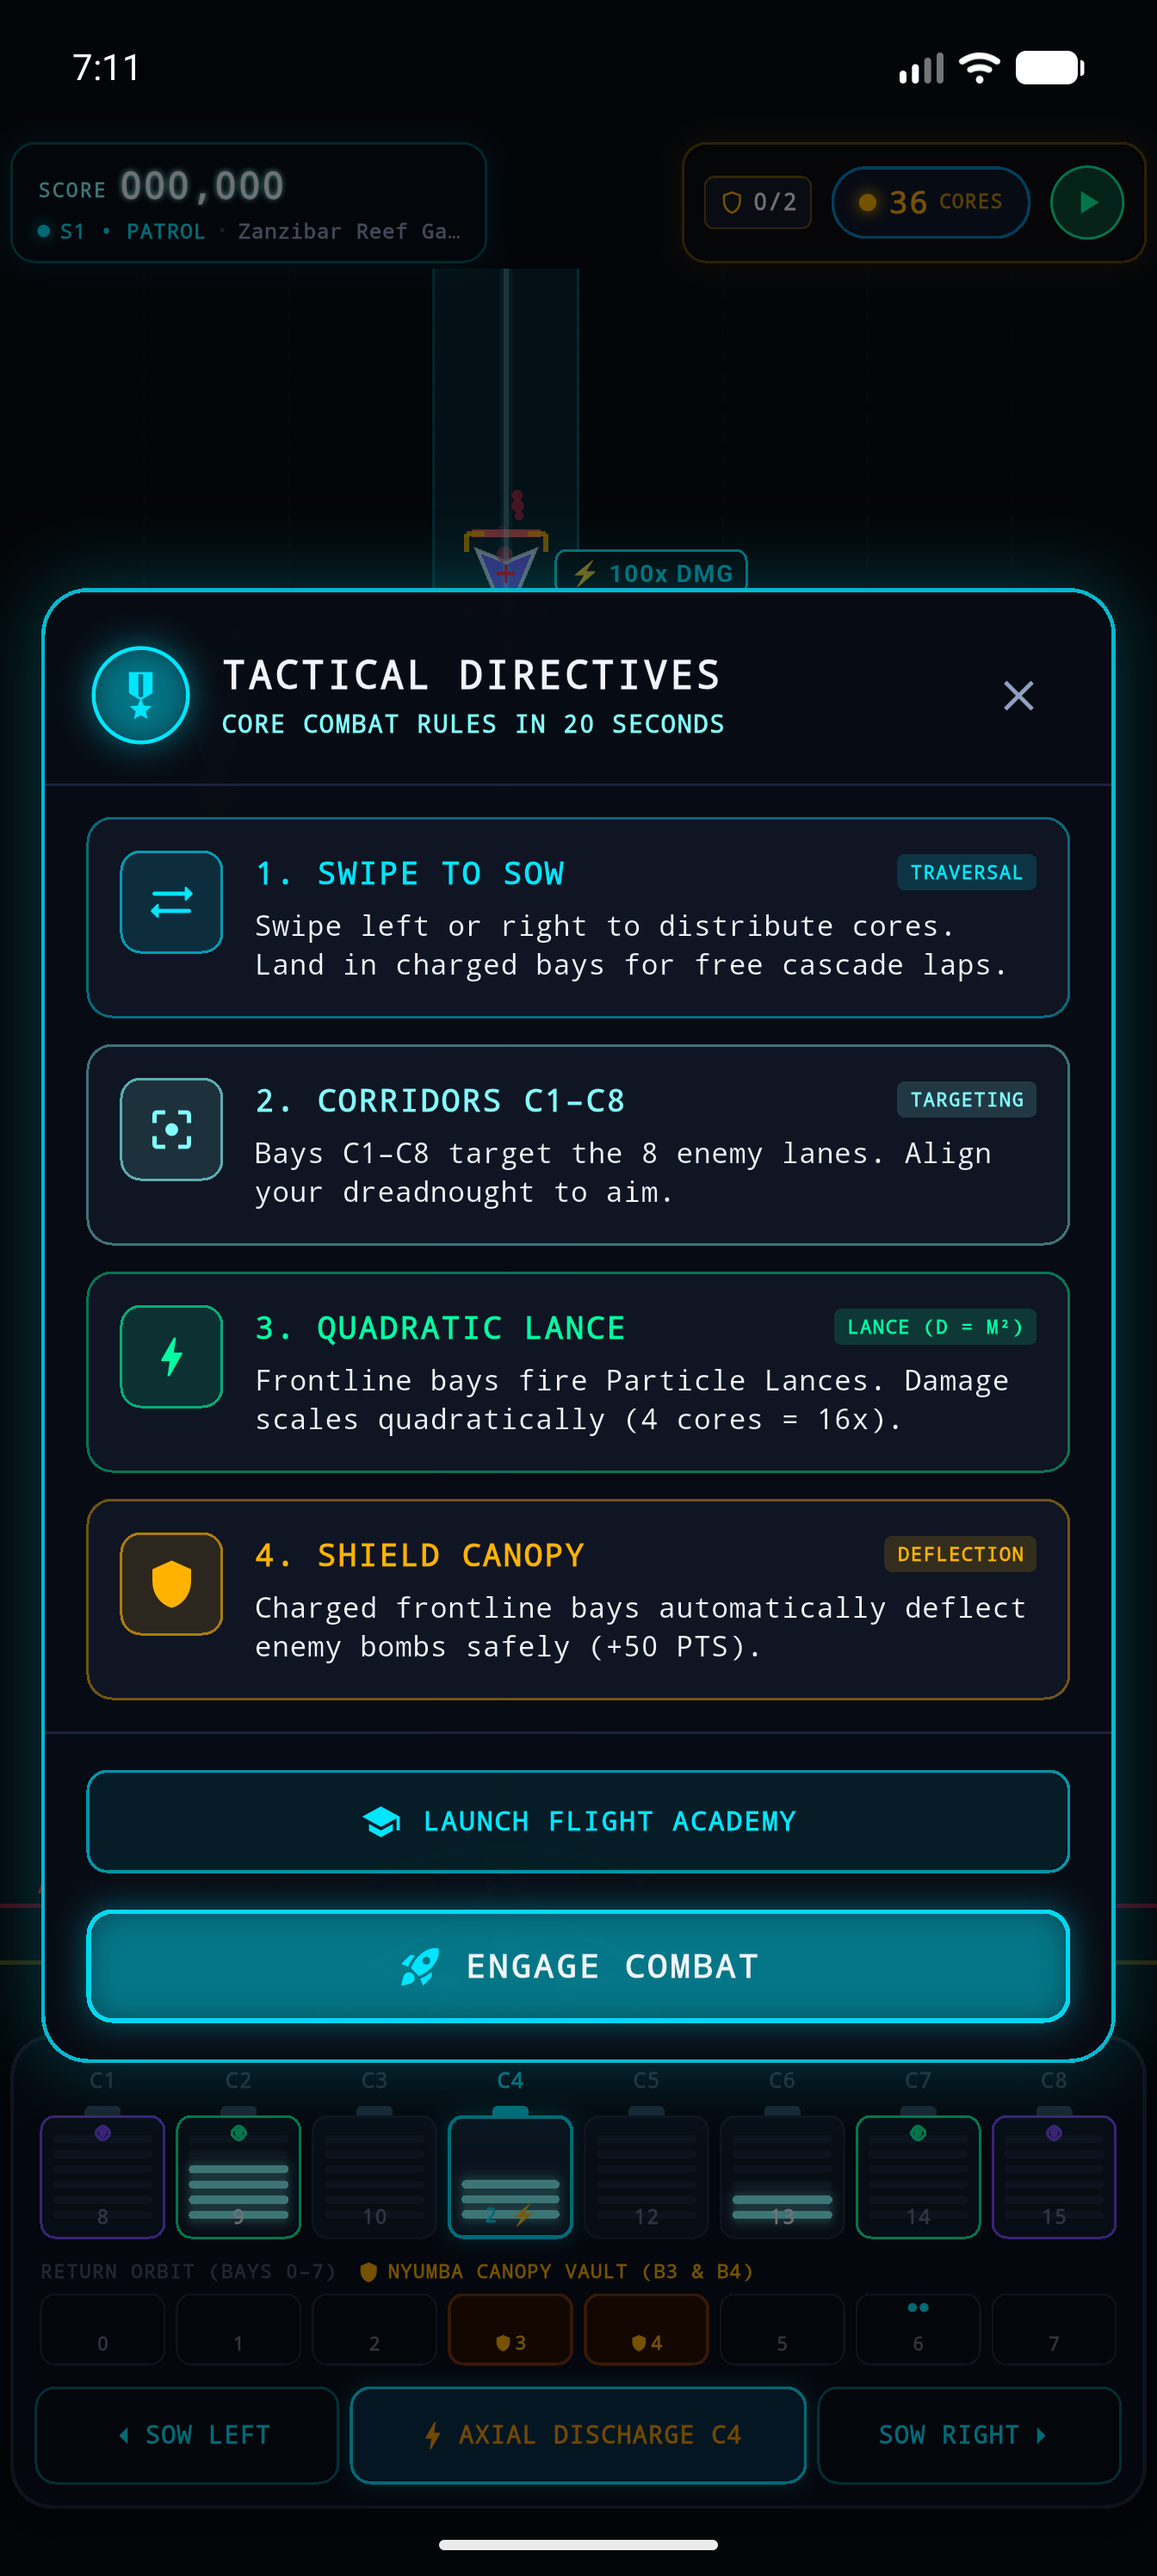
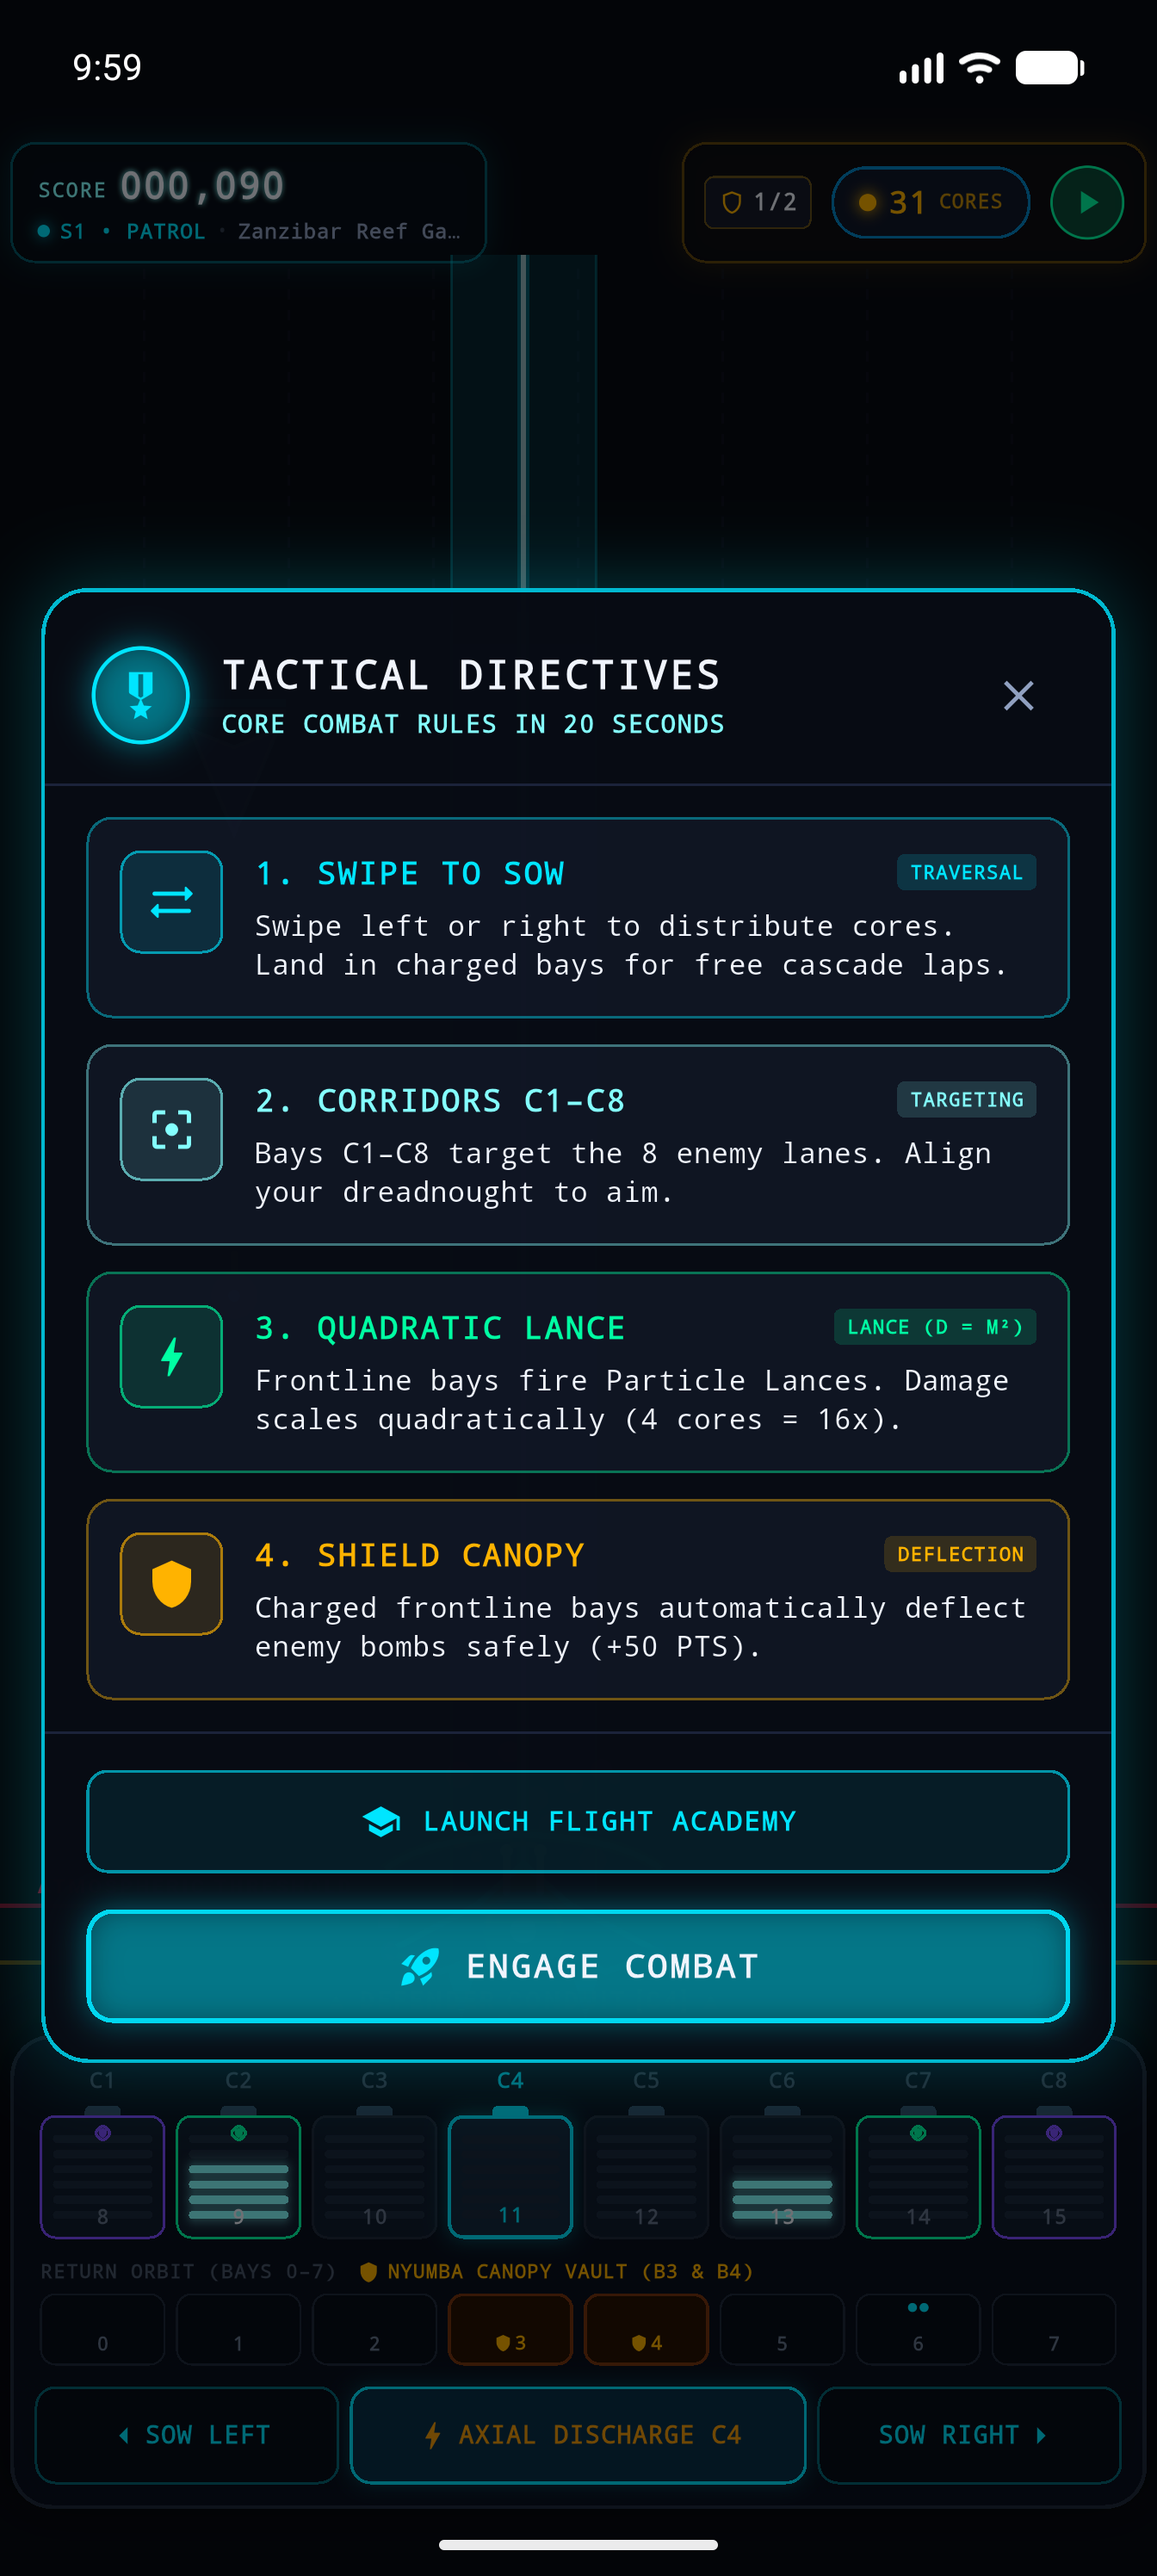
feat(graphics): enhance quadratic burst particles and regenerate store screenshots

diff --git a/lib/presentation/controllers/combat_coordinator.dart b/lib/presentation/controllers/combat_coordinator.dart
@@ -286,6 +286,16 @@ class CombatCoordinator extends ChangeNotifier {
         ? worldPosX * viewportSize.width
         : (assignedCorridor + 0.5) * (viewportSize.width / 8.0);
 
+    // Quadratic burst explosion upon enemy destruction
+    particleService.spawnFlakBurst(
+      enemyCorridorX,
+      viewportSize.height * 0.28,
+      vesselType == 2
+          ? VoidTheme.crimsonFlare
+          : (vesselType == 1 ? VoidTheme.nebulaAmethyst : VoidTheme.solarGold),
+      count: 24,
+    );
+
     damageNumbers.add(
       FloatingDamageNumber(
         text: '+$siphonAmount CORES (SIPHON)',
@@ -467,19 +477,62 @@ class CombatCoordinator extends ChangeNotifier {
       bays: bays,
     );
 
-    // 6. Reactive audio triggers on newly active lances and flak detonations
+    // 6. Reactive audio triggers and particle burst effects on active lances and flaks
     for (final lance in lances) {
-      if (lance.active && !_activeLanceBays.contains(lance.firingBayIndex)) {
-        audio.onLanceFired();
-        if (!_state.isAutoSolving && !_hasUsedAiSolver) {
-          _sessionLancesFired++;
+      if (lance.active) {
+        final corridor = (lance.firingBayIndex >= 8)
+            ? (lance.firingBayIndex - 8)
+            : lance.firingBayIndex;
+        final lanceX = (lance.originX > 0.0 && lance.originX <= 1.0)
+            ? lance.originX * viewportSize.width
+            : (corridor + 0.5) * (viewportSize.width / 8.0);
+
+        if (!_activeLanceBays.contains(lance.firingBayIndex)) {
+          audio.onLanceFired();
+          if (!_state.isAutoSolving && !_hasUsedAiSolver) {
+            _sessionLancesFired++;
+          }
+          // High-energy muzzle and impact spark burst
+          particleService.spawnLanceSparks(
+            lanceX,
+            boundaryY,
+            VoidTheme.plasmaCyan,
+            count: 12,
+          );
         }
+
+        particleService.spawnLanceSparks(
+          lanceX,
+          viewportSize.height * 0.28,
+          VoidTheme.plasmaCyan,
+          count: 4,
+        );
       }
     }
     _activeLanceBays = lances
         .where((l) => l.active)
         .map((l) => l.firingBayIndex)
         .toSet();
+
+    for (final flak in flaks) {
+      if (flak.active) {
+        final topMargin = viewportSize.height * 0.06;
+        final flakX = flak.worldPosX <= 1.0
+            ? flak.worldPosX * viewportSize.width
+            : flak.worldPosX;
+        final flakY = flak.worldPosY <= 1.0
+            ? topMargin +
+                  ((1.0 - flak.worldPosY.clamp(0.0, 1.0)) / 0.85) *
+                      (boundaryY - topMargin)
+            : flak.worldPosY;
+        particleService.spawnFlakBurst(
+          flakX,
+          flakY,
+          VoidTheme.solarGold,
+          count: 14,
+        );
+      }
+    }
 
     final nowHasFlak = flaks.any((f) => f.active);
     if (nowHasFlak && !_hasActiveFlak) {
@@ -494,19 +547,24 @@ class CombatCoordinator extends ChangeNotifier {
     for (final lance in lances) {
       if (lance.active) {
         _applyScreenShake(3.5);
-        if (damageNumbers.length < 5 && _random.nextDouble() < 0.25) {
+        if (damageNumbers.length < 5 && _random.nextDouble() < 0.35) {
           final corridor = (lance.firingBayIndex >= 8)
               ? (lance.firingBayIndex - 8)
               : lance.firingBayIndex;
           final lanceX = (lance.originX > 0.0 && lance.originX <= 1.0)
               ? lance.originX * viewportSize.width
               : (corridor + 0.5) * (viewportSize.width / 8.0);
+          final dmgVal = (lance.totalDamage * 10).toInt();
           damageNumbers.add(
             FloatingDamageNumber(
-              text: '${(lance.totalDamage * 10).toInt()}',
+              text: lance.totalDamage >= 2.0
+                  ? 'QUADRATIC CRIT +$dmgVal'
+                  : '+$dmgVal',
               x: lanceX,
-              y: viewportSize.height * 0.35,
-              color: VoidTheme.plasmaCyan,
+              y: viewportSize.height * 0.32,
+              color: lance.totalDamage >= 2.0
+                  ? VoidTheme.solarGold
+                  : VoidTheme.plasmaCyan,
               isCritical: lance.totalDamage >= 2.0,
             ),
           );

diff --git a/scripts/capture_phone_screenshots.py b/scripts/capture_phone_screenshots.py
@@ -20,8 +20,6 @@ import shutil
 import subprocess
 import sys
 import time
-import numpy as np
-from PIL import Image
 
 DEVICE = "emulator-5554"
 SCREENSHOTS_DIR = "/home/kelvingorekore/projects/void-sower/store_listing/screenshots/phone"
@@ -140,6 +138,21 @@ def main():
       os.path.join(ASSETS_DIR, "phone_01_tactical_combat_grid.png"),
   )
 
+  # Screenshot 02: Quadratic Lance Discharge (Axial Particle Lance with beam, muzzle flare, sparks, and damage numbers)
+  print("[Combat] Capturing 02_quadratic_lance_discharge.png during axial lance burst...")
+  fire_proc = subprocess.Popen([
+      "adb", "-s", DEVICE, "shell",
+      "for i in $(seq 1 14); do input tap 672 2820; sleep 0.12; done"
+  ])
+  time.sleep(0.3)
+  capture("02_quadratic_lance_discharge.png")
+  fire_proc.wait()
+  shutil.copyfile(
+      os.path.join(SCREENSHOTS_DIR, "02_quadratic_lance_discharge.png"),
+      os.path.join(ASSETS_DIR, "phone_02_quadratic_lances.png"),
+  )
+  time.sleep(0.8)
+
   # Screenshot 07: Bao Tactical Directives (Tap PAUSE at x=1262, y=234, then DIRECTIVES at x=500, y=1761)
   print("[Directives] Opening Tactical Pause menu...")
   tap(1262, 234)
@@ -193,21 +206,13 @@ def main():
   keyevent(4)
   time.sleep(1.0)
 
-  # Launch Sector 1 from Campaign Map (tap ENGAGE at x=825, y=899)
-  print("[Combat] Launching Sector 1 (tap ENGAGE at x=825, y=899)...")
+  # Launch Sector 1 from Campaign Map (tap Sector card at x=825, y=899, then ENGAGE BATTLE at x=672, y=2820)
+  print("[Combat] Launching Sector 1 from Campaign Map (tap Sector 1 at x=825, y=899)...")
   tap(825, 899)
-  time.sleep(2.0)
-
-  # Screenshot 02: Quadratic Lance Discharge
-  print("[Combat] Discharging Axial Particle Lance (tap AXIAL DISCHARGE at x=672, y=2820)...")
+  time.sleep(1.2)
+  print("[Combat] Tapping ENGAGE BATTLE on briefing sheet (x=672, y=2820)...")
   tap(672, 2820)
-  time.sleep(0.18)
-  capture("02_quadratic_lance_discharge.png")
-  shutil.copyfile(
-      os.path.join(SCREENSHOTS_DIR, "02_quadratic_lance_discharge.png"),
-      os.path.join(ASSETS_DIR, "phone_02_quadratic_lances.png"),
-  )
-  time.sleep(1.0)
+  time.sleep(2.5)
 
   # Engage AI Solver to eliminate invaders and trigger Victory Dialog
   print("[Victory] Enabling AI Solver to trigger sector victory...")
@@ -217,7 +222,7 @@ def main():
   time.sleep(0.5)
   tap(672, 1587)  # Resume
   print("[Victory] Waiting for AI solver to clear invaders and present Victory Dialog...")
-  time.sleep(4.1)
+  time.sleep(6.0)
   capture("06_sector_liberation_victory.png")
   shutil.copyfile(
       os.path.join(SCREENSHOTS_DIR, "06_sector_liberation_victory.png"),
